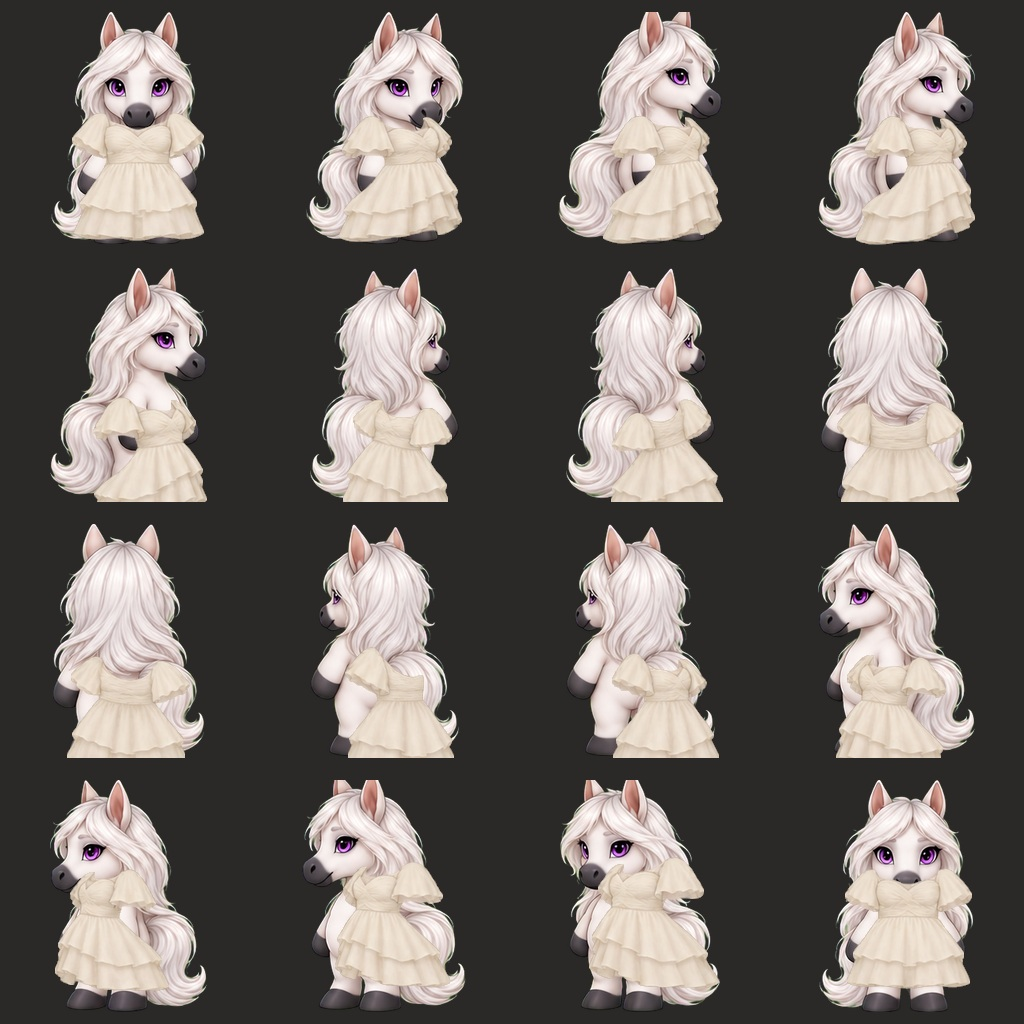
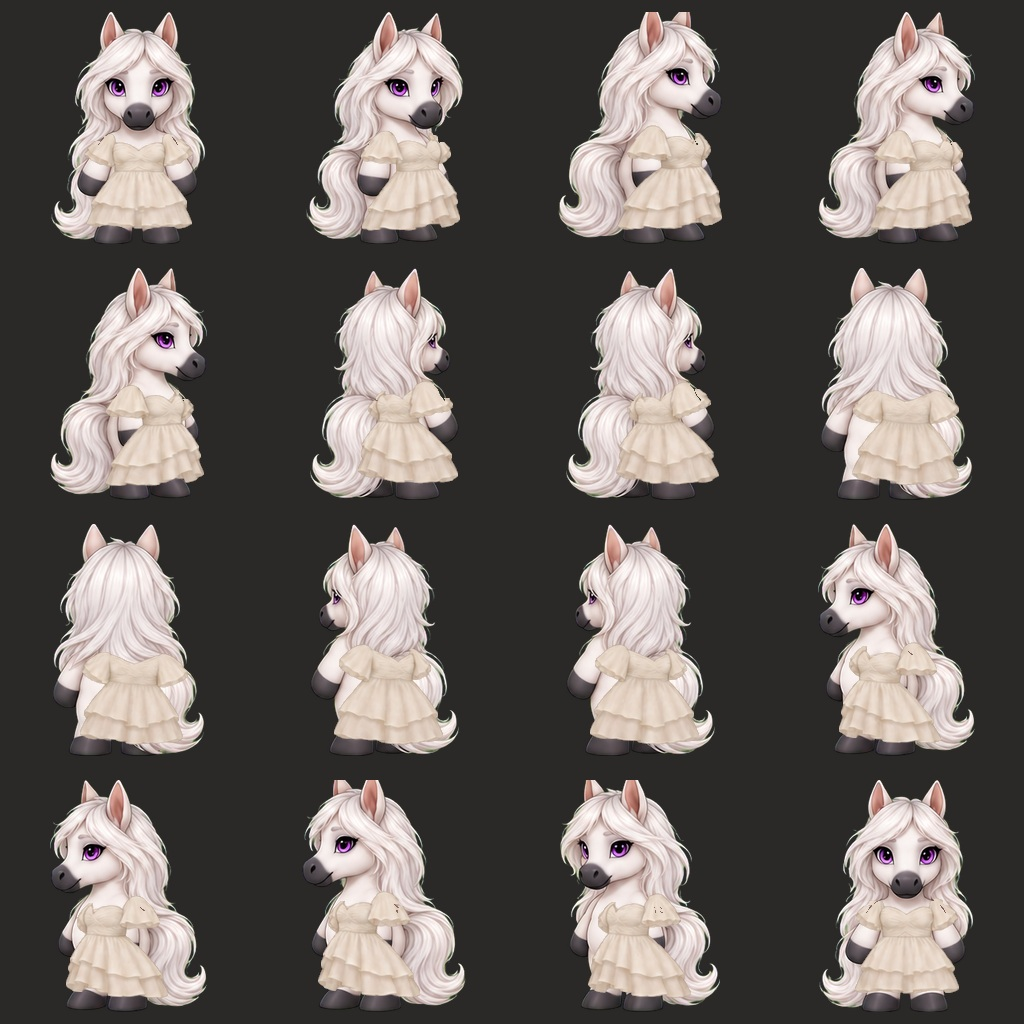
Fix Celeste ivory dress face occlusion [fast-deploy]

diff --git a/elsie-model-review.html b/elsie-model-review.html
@@ -13,4 +13,4 @@
   <link rel="stylesheet" href="/pwa-ui.css">
   <script defer src="/pwa-register.js"></script><link rel="stylesheet" href="speaking-professional.css?v=20260908-refine7"><style>
 *{box-sizing:border-box}body{margin:0;background:#f5f0e8;color:#263c33;font:16px/1.6 system-ui}main{max-width:1120px;margin:auto;padding:30px 20px 60px}a{color:#276449}h1{font:500 clamp(30px,5vw,48px)/1.2 Georgia;margin:16px 0}header{max-width:760px}.tools{display:flex;gap:14px;flex-wrap:wrap;align-items:center;margin:22px 0}select,input,button{font:inherit;border:1px solid #b6c6b6;border-radius:8px;background:white;padding:8px}label{display:grid;gap:5px;font-size:14px}.names{display:grid;grid-template-columns:repeat(4,minmax(0,1fr));gap:12px;margin:18px 0}.names input,.names select{min-width:0;width:100%}.gallery{display:grid;grid-template-columns:repeat(3,1fr);gap:18px}figure{margin:0;text-align:center;background:#fffdf9;border:1px solid #d9dfd1;border-radius:18px;padding:15px}.gallery canvas{width:100%;max-width:280px;height:auto}figcaption{font-size:19px;font-weight:600}#selected{min-height:26px}button{cursor:pointer}#classroom{border-radius:18px;overflow:hidden;background:#e8ece3}.classroom-camera-controls{padding:10px}@media(max-width:650px){.names{grid-template-columns:repeat(2,minmax(0,1fr))}.gallery{gap:7px}figure{padding:5px}figcaption{font-size:16px}}
-</style></head><body><main><header><a href="speaking-professional.html">← DSE Professional Mode</a><h1>Eddy, Elsie & Phoebe.</h1><p>Eddy, Elsie and Phoebe with distinct coat colours, seated exam poses and speaking turns. Rotate the room, then select a character to see the others listen.</p></header><div class="tools"><label>Candidates<select id="count"><option>2</option><option selected>3</option><option>4</option></select></label><button id="apply" type="button">Update classroom</button><label><span>Exam seating</span><input id="seated" type="checkbox" checked></label><button id="stop-speaking" type="button">Pause speaking</button></div><div id="names" class="names"></div><div id="classroom" data-classroom-3d></div><p id="selected" role="status">Select a character or desk to mark the active speaker.</p><div class="tools"><label>Character angle<input id="angle" type="range" min="0" max="360" step="0.25" value="0"><output id="angle-label">0°</output></label></div><canvas id="mascot-gallery" style="display:block;width:100%;height:350px;border-radius:18px;background:#fffdf9"></canvas><div class="gallery"><figure><figcaption>Eddy</figcaption></figure><figure><figcaption>Elsie</figcaption></figure><figure><figcaption>Phoebe</figcaption></figure></div></main><script type="module" src="speaking-mascot-preview.mjs?v=20261001-ivory-dress1"></script></body></html>
+</style></head><body><main><header><a href="speaking-professional.html">← DSE Professional Mode</a><h1>Eddy, Elsie & Phoebe.</h1><p>Eddy, Elsie and Phoebe with distinct coat colours, seated exam poses and speaking turns. Rotate the room, then select a character to see the others listen.</p></header><div class="tools"><label>Candidates<select id="count"><option>2</option><option selected>3</option><option>4</option></select></label><button id="apply" type="button">Update classroom</button><label><span>Exam seating</span><input id="seated" type="checkbox" checked></label><button id="stop-speaking" type="button">Pause speaking</button></div><div id="names" class="names"></div><div id="classroom" data-classroom-3d></div><p id="selected" role="status">Select a character or desk to mark the active speaker.</p><div class="tools"><label>Character angle<input id="angle" type="range" min="0" max="360" step="0.25" value="0"><output id="angle-label">0°</output></label></div><canvas id="mascot-gallery" style="display:block;width:100%;height:350px;border-radius:18px;background:#fffdf9"></canvas><div class="gallery"><figure><figcaption>Eddy</figcaption></figure><figure><figcaption>Elsie</figcaption></figure><figure><figcaption>Phoebe</figcaption></figure></div></main><script type="module" src="speaking-mascot-preview.mjs?v=20261002-ivory-facefix1"></script></body></html>

diff --git a/sentence-structure.js b/sentence-structure.js
@@ -1,6 +1,6 @@
 import { createLessonLibrary } from "./lesson-library.mjs?v=20260908-loading1";
 import { installQuestionOrder, orderQuestions } from "./question-order.mjs?v=20260928-wrapped1";
-import { createExpressionMap } from "./common-expression-map.mjs?v=20261001-ivory-dress1";
+import { createExpressionMap } from "./common-expression-map.mjs?v=20261002-ivory-facefix1";
 import { SENTENCE_REALMS } from "./sentence-structure-realms.mjs?v=20260924-closet-all2";
 import { SENTENCE_MAP_LIMIT, sentenceMapLessons, sentenceMapCompleted } from "./sentence-structure-map.mjs?v=20260914-hotel3b";
 import { GOLDEN_EDDIE_ART, sentenceTrophyState, sentenceTrophyCollection, goldenEddieFigure, renderSentenceTrophyShelf, syncSentenceMapTrophies, syncSentenceTrophyCounter, syncSentenceTrophyControls, animateSentenceTrophy, awardDateMarkup } from "./sentence-structure-trophies.mjs?v=20260915-phoebe2";

diff --git a/common-expression-system.js b/common-expression-system.js
@@ -542,7 +542,7 @@ let expressionMapModule = null;
 function syncExpressionMap() {
   if (!HAS_LESSON_MAP || !SYSTEM.lessons.length || !state.user) return;
   expressionMapModule ||= Promise.all([
-    import("./common-expression-map.mjs?v=20261001-ivory-dress1"),
+    import("./common-expression-map.mjs?v=20261002-ivory-facefix1"),
     SYSTEM_KEY === "business-speaking" ? import("./common-expression-airport.mjs?v=20260915-lounge3").then(async module => { await module.prepareAirport(); return module; }) :
     SYSTEM_KEY === "written" ? import("./common-expression-garden.mjs?v=20260912-garden1") :
     SYSTEM_KEY === "rhetorical-speaking" ? import("./common-expression-coast.mjs?v=20260912-coast2") :

diff --git a/phrasal-verb-system.js b/phrasal-verb-system.js
@@ -10,7 +10,7 @@ import { createHorseyTrophies } from './horsey-trophies.mjs?v=20260915-phoebe2';
  * phrases are highlighted only when content explicitly supplies `highlight` or
  * `highlights` metadata.
  */
-import { createExpressionMap } from './common-expression-map.mjs?v=20261001-ivory-dress1';
+import { createExpressionMap } from './common-expression-map.mjs?v=20261002-ivory-facefix1';
 import { createPhrasalJourney, phrasalJourneyLessons, phrasalMapCompleted, PHRASAL_MAP_LIMIT } from './phrasal-verb-journey.mjs?v=20260914-bakery4';
 
 let phrasalMap = null;

diff --git a/writing-practice.html b/writing-practice.html
@@ -3193,7 +3193,7 @@
   <script src="language-learning.js?v=20260914-six-languages-1"></script>
   <link rel="stylesheet" href="language-learning.css?v=20260914-six-languages-1">
   <link rel="stylesheet" href="writing-chess-map.css?v=20260915-noirceleste1">
-  <script>window.writingChessMapReady = import("./writing-chess-map.mjs?v=20261001-ivory-dress1");</script>
+  <script>window.writingChessMapReady = import("./writing-chess-map.mjs?v=20261002-ivory-facefix1");</script>
 </head>
 <body>
   <div class="page-loader" data-page-loader aria-hidden="true">

diff --git a/proverb-system.js b/proverb-system.js
@@ -1,5 +1,5 @@
 import {PROVERB_BLACK_SAND} from './proverb-black-sand.mjs?v=20260915-black3';
-import { createExpressionMap } from './common-expression-map.mjs?v=20261001-ivory-dress1';
+import { createExpressionMap } from './common-expression-map.mjs?v=20261002-ivory-facefix1';
 import { createHorseyTrophies } from './horsey-trophies.mjs?v=20260915-phoebe2';
 import { installQuestionOrder, orderQuestions } from "./question-order.mjs?v=20260908-loading1";
 /*

diff --git a/tools/mascot-art/wardrobe/girls-ivory-tiered-dress/README.md b/tools/mascot-art/wardrobe/girls-ivory-tiered-dress/README.md
@@ -5,8 +5,8 @@
 ## Asset contract
 
 - `design-reference.png` is the user-supplied garment reference.
-- `*-fit.png` are built-in ImageGen character fitting references.
-- `*-overlay-source.png` are built-in ImageGen garment-isolation sources.
+- `*-fit.png` are built-in ImageGen character fitting references; `celeste-fit-v2.png` is the corrected visual fitting reference with its neckline below every muzzle/face frame.
+- `*-overlay-source.png` are built-in ImageGen garment-isolation sources. Celeste's runtime asset uses the corrected `celeste-overlay-source-v2.png` because her pale mane and coat cannot be separated reliably from the ivory fabric by colour alone.
 - `ivory-tiered-dress-display.png` is the transparent inventory product source.
 - `node tools/prepare-girls-ivory-tiered-dress.cjs` removes generation-edge noise and produces three independent registered 1024 x 1024 lossless WebP overlays.
 - Runtime overlays live at `assets/speaking-system/cosmetics/{character}/ivory-tiered-dress.webp`.
@@ -15,4 +15,4 @@ The item uses slot `fullBody` with coverage `top` and `lower`. Equipping it clea
 
 ## QA
 
-Inspect every cell in each `qa-*-composite.jpg`. Confirm that the canonical face, eyes, mane, tail and hooves remain intact; the ruched bodice, flutter sleeves and tiered ivory skirt must remain registered in all sixteen directions.
+Inspect every cell in each `qa-*-composite.jpg`. Confirm that the canonical face, eyes, muzzle, mane, tail and hooves remain intact; the ruched bodice, flutter sleeves and tiered ivory skirt must remain registered in all sixteen directions. The extractor treats Celeste's canonical head and dark facial features as hard occlusion masks, including after mask repair, so a shifted generated neckline cannot cover them.
